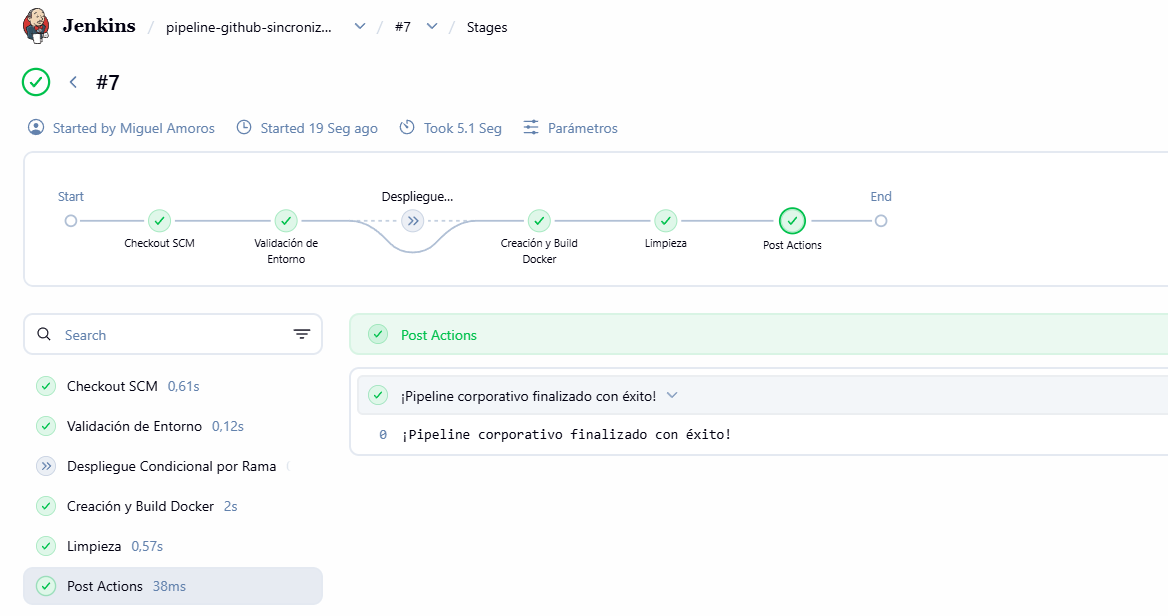
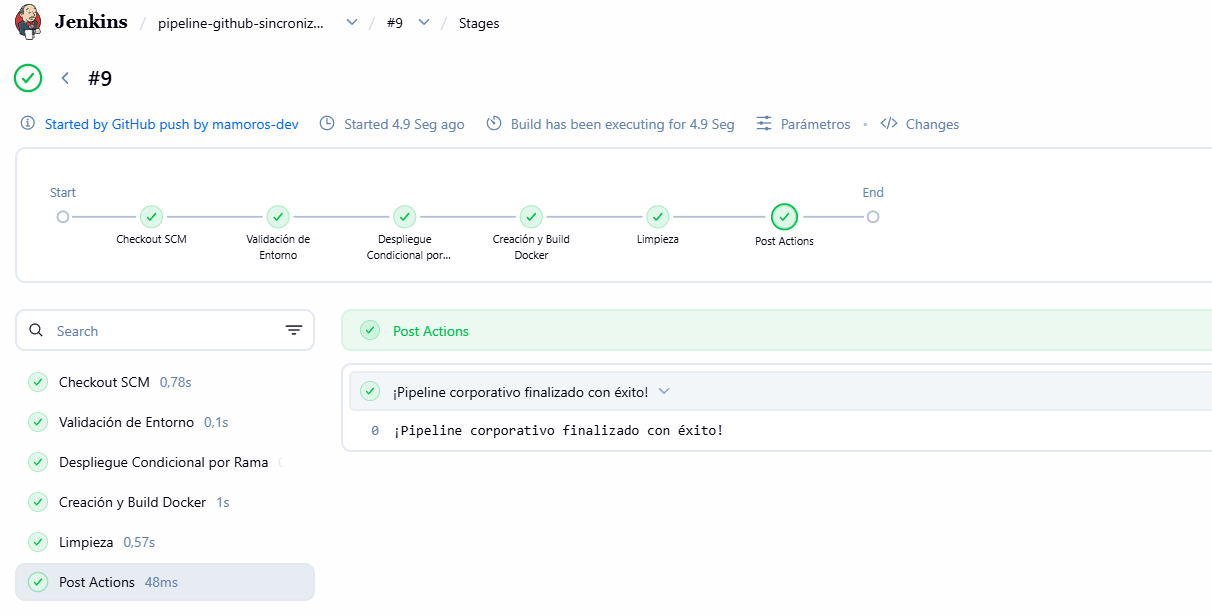
docs: update final README.md

diff --git a/lab-11/README.md b/lab-11/README.md
@@ -8,6 +8,7 @@
 - [Webhook en GitHub](#webhook-en-github)
 - [Verificaciones](#verificaciones)
 - [Tecnologias](#tecnologias)
+- [Ejemplo Empresa](#ejemplo-empresa)
 - [Author](#author)
 
 ## Ejercicio
@@ -203,11 +204,11 @@ pipeline {
         
         stage('Despliegue Condicional por Rama') {
             // Práctica de empresa: Este stage solo se ejecuta si la rama es main o feature
-            when {
-                anyOf {
-                    branch 'main'
-                    branch 'feature/jenkins-webhook'
-                    branch 'feature/*'
+            wwhen {
+                expression { 
+                    env.BRANCH_NAME == 'feature/jenkins-webhook' || 
+                    env.GIT_BRANCH == 'origin/feature/jenkins-webhook' || 
+                    currentBuild.getBuildCauses()[0].shortDescription.contains('feature/jenkins-webhook')
                 }
             }
             steps {
@@ -242,6 +243,7 @@ pipeline {
     }
 }
 ```
+> WHEN: Por qué funciona: En lugar de mirar una sola variable, le decimos a Jenkins: "Comprueba si la rama se llama feature/jenkins-webhook, o si empieza por origin/, o incluso mira la descripción del evento que envió GitHub". De esta forma nos aseguramos de que, coja la variable por donde la coja, la detecte y ejecute la fase en verde.
 
 + Pruebas:
     - Actualiza tu archivo en local
@@ -251,7 +253,7 @@ pipeline {
 > Cómo verificar: Revisa que la fase "Despliegue Condicional por Rama" se haya ejecutado en verde porque tu rama cumple la condición del filtro when.
 
 ![](./images/pipeline2.png)  
-> 
+> > El fallo no tiene nada que ver con el Webhook ni con Ngrok (el disparador funcionó de maravilla y clonó tu repositorio perfectamente). El problema es que en el código de prueba que añadimos pusimos esto: `API_TOKEN = credentials('mi-token-corporativo-ficticio')` 
 
 + Para que Jenkins pueda usar una credencial real, hay que dar dos pasos:
     - **Crear la credencial en Jenkins:**
@@ -262,7 +264,6 @@ pipeline {
         + En lugar de usar un nombre inventado, pones el ID exacto que acabas de registrar en Jenkins.
 
 ![](./images/pipeline2_2.png)  
-> El fallo no tiene nada que ver con el Webhook ni con Ngrok (el disparador funcionó de maravilla y clonó tu repositorio perfectamente). El problema es que en el código de prueba que añadimos pusimos esto: `API_TOKEN = credentials('mi-token-corporativo-ficticio')` 
 
 + Lanzamos de nuevo el pipeline y todo ok!
 ![](./images/pipeline2_3.png)  
